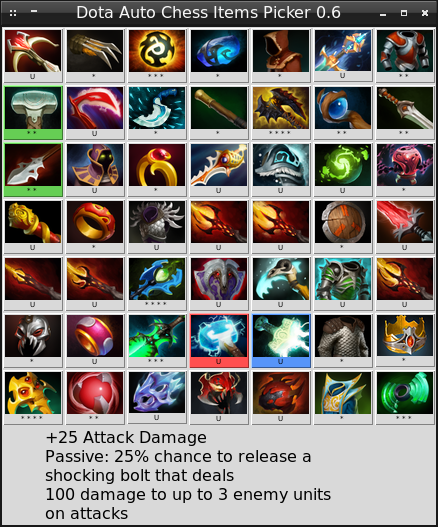
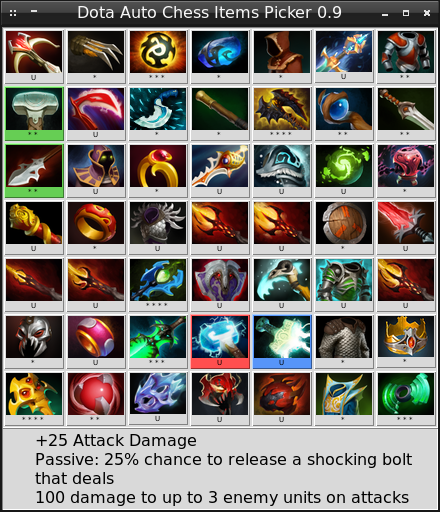
Release 0.9

diff --git a/pieces-picker.py b/pieces-picker.py
@@ -4,7 +4,7 @@ from Tkinter import *
 from csv import reader
 from PIL import ImageTk,Image
 
-_VERSION = "0.8"
+_VERSION = "0.9"
 _PIECES_FILE = "database/csv/pieces.csv"
 _SPECIES_FILE = "database/csv/species.csv"
 _CLASSES_FILE = "database/csv/classes.csv"

diff --git a/strategy-picker.py b/strategy-picker.py
@@ -4,7 +4,7 @@ from Tkinter import *
 from csv import reader
 from PIL import ImageTk,Image
 
-_VERSION = "0.8"
+_VERSION = "0.9"
 _PIECES_FILE = "database/csv/pieces.csv"
 _COMBOS_FILE = "database/csv/strategies.csv"
 

diff --git a/combo-picker.py b/combo-picker.py
@@ -5,7 +5,7 @@ from Tkinter import *
 from csv import reader
 from PIL import ImageTk,Image
 
-_VERSION = "0.8"
+_VERSION = "0.9"
 _PIECES_FILE = "database/csv/pieces.csv"
 _COMBOS_FILE = "database/csv/combos.csv"
 

diff --git a/items-picker.py b/items-picker.py
@@ -4,7 +4,7 @@ from Tkinter import *
 from csv import reader
 from PIL import ImageTk,Image
 
-_VERSION = "0.8"
+_VERSION = "0.9"
 _ITEMS_FILE = "database/csv/items.csv"
 
 _DEFAULT_COLOR = "#d9d9d9"

diff --git a/README.md b/README.md
@@ -1,6 +1,6 @@
-# Dota Auto Chess Picker 0.8 version
+# Dota Auto Chess Picker 0.9 version
 
-Dota Auto Chess Picker is a utility to check combinations of pieces and items for the [Dota Auto Chess](https://steamcommunity.com/sharedfiles/filedetails/?id=1613886175) custom game.
+Dota Auto Chess Picker is a utility for showing combinations of pieces and items for the [Dota Auto Chess](https://steamcommunity.com/sharedfiles/filedetails/?id=1613886175) custom game. You can use the picker during the game (as a hint) or for planning your strategies.
 
 A current development state is available in the [`CHANGELOG.md`](CHANGELOG.md) file.
 
@@ -47,7 +47,7 @@ The `pieces-picker.py` script shows you all combinations of the pieces depending
 
 ![Pieces Picker](images/readme/pieces-picker-window.png)
 
-Start the `pieces-picker.py` script and click on the piece icon. The green color will highlight all pieces of the same species. If the piece has second species, then corresponding pieces will be highlighted by the yellow color. Blue color highlights the pieces with the same class. Purple color matches the pieces with the same species and class.
+Start the `pieces-picker.py` script and click on the piece icon. The green color highlights all pieces of the same species. If the piece has second species, then corresponding pieces are highlighted by the yellow color. Blue color highlights the pieces with the same class. Purple color matches the pieces with the same species and class.
 
 You will see a brief description of the piece's skill near the red box.
 
@@ -59,19 +59,19 @@ The `items-picker.py` script shows you combinations of items.
 
 ![Items Picker](images/readme/items-picker-window.png)
 
-Start the `items-picker.py` script and click on the item icon. The red color will highlight the selected item. You will see a description of this item at the bottom of the window. If the item can be combined in the upgrade, it will be marked by the blue color. The green color will highlight all components (if they exist) of the selected item.
+Start the `items-picker.py` script and click on the item icon. The red color highlights the selected item. You will see a description of this item at the bottom of the window. If the item can be combined in the upgrade, it is marked by the blue color. The green color highlights all components (if they exist) of the selected item. If the upgrade consists of two similar items, the corresponding item icon is highlighted by the yellow color.
 
-Let us consider the screenshot above. The select item is Maelstorm. You can combine it with Hyperstone for getting Mjollnir. So, Mjollnir is marked by the blue color.  You can get Maelstorm by the combination of Javelin and Mithril Hammer. Thus, these two items are highlighted by the green color.
+Let us consider the screenshot above. The select item is Maelstorm. You can combine it with Hyperstone for getting Mjollnir. So, Mjollnir is marked by a blue color. You can get Maelstorm by the combination of Javelin and Mithril Hammer. Thus, these two items are highlighted by the green color.
 
 Stars under each item icon show its tier. The `U` letter means that this is an upgraded item.
 
 ### Strategy Picker
 
-The `strategy-picker.py` script shows you combinations of pieces according to predefined strategies. This script is recommended for new players who do not know all pieces well. It helps you to build whole combination of pieces according to recommended strategy.
+The `strategy-picker.py` script shows you combinations of pieces according to predefined strategies. This script is recommended for new players who do not know all pieces well. It helps you to follow one strong strategy.
 
 ![Strategy Picker](images/readme/strategy-picker-window.png)
 
-Start the script and click on the piece icon, which you have bought at the current round. The red color will highlight the selected piece. The green color will highlight all pieces which can make a combo with the selected one. You should follow the recommendation and click to the highlighted pieces when you buy them. Then you meet the recommended strategy.
+Start the script and click on the piece icon, which you have bought at the current round. The red color highlights the selected piece. The green color highlights all pieces which can make a combo with the selected one. You should follow the recommendation and click to the highlighted pieces when you buy them. You choice defines the following recommendations.
 
 The strategies are defined in the `database/docs/Strategy.ods` file. These are steps to add a new strategy:
 
@@ -84,15 +84,15 @@ Now the `strategy-picker.py` script highlights your strategy.
 
 ### Combo Picker
 
-The `combo-picker.py` script shows you strong combinations of pieces for each phase of the game. This script is recommended for advanced players.
+The `combo-picker.py` script shows you strong combinations of pieces for each phase of the game. Using these combinations you can build your own strategy. This script is recommended for advanced players.
 
 ![Combo Picker](images/readme/combo-picker-window.png)
 
-You see three tabs when starting the script: "Earlygame", "Midgame" and "Lategame". On each tab, there are lines with recommended combos. There are three columns: name of the combo, preferred line for pieces in this combo ("Front", "Back", "Mixed") and icons of pieces in this combo.
+You see three tabs when starting the script: "Earlygame", "Midgame" and "Lategame". On each tab, there are lines with recommended combos. There are three columns: name of the combo, the preferred line for pieces in this combo ("Front", "Back", "Mixed") and icons of pieces in this combo.
 
 When you buy pieces of the specific combo you can press on corresponding icons. Then these pieces will be highlighted by the red color in all combos on all tabs. So, you can continue building your strategy considering the pieces which you already bought.
 
-Also, the green color will highlight all pieces with the same species as pieces which you already bought. The same way, blue color highlight all pieces with the same classes.
+Also, the green color highlights all pieces with the same species as pieces which you already bought. The same way, blue color highlights all pieces with the same classes.
 
 The combos are defined in the `database/docs/Combos.ods` file. These are steps to add a new combo:
 

diff --git a/CHANGELOG.md b/CHANGELOG.md
@@ -1,4 +1,8 @@
-* version 0.8 
+* version 0.9
+  - Highlight the duplicated items in the item receipt by the yellow color.
+  - Rework widgets geometry in the items-picker.py script.
+
+* version 0.8
   - Add the combo-picker.py script.
   - Rework the widgets geometry in the pieces-picker.py script.
 
